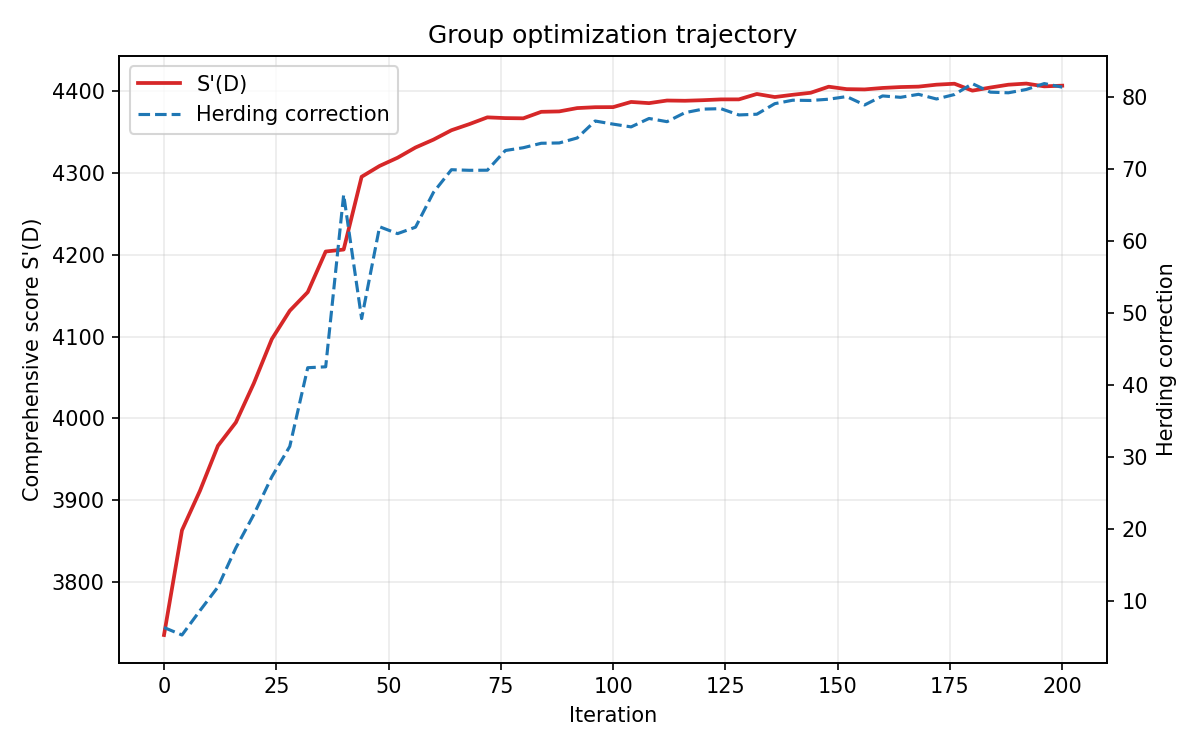
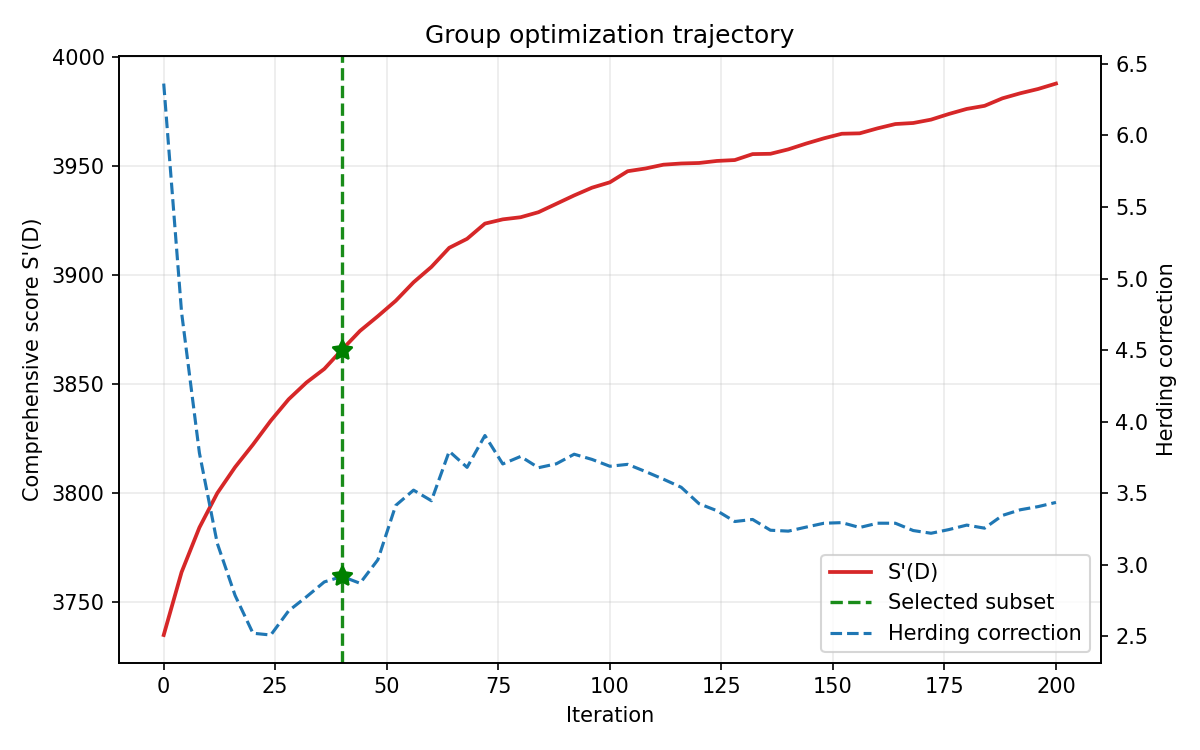
xxx

diff --git a/calculate_my_mask.py b/calculate_my_mask.py
@@ -82,7 +82,7 @@ def parse_args() -> argparse.Namespace:
     parser.add_argument(
         "--group-batch-size",
         type=int,
-        default=32,
+        default=16,
         help="kr<=50 时的初始 batch_size；kr>50 时自动减半",
     )
     parser.add_argument(
@@ -531,9 +531,17 @@ def select_group_mask(
 
     # 初始真实评估
     current_item = _evaluate(current_indices)
+    init_item = dict(current_item)
+
+    def _selection_metric(item: dict[str, object]) -> float:
+        corr_sum = float(item["class_corr"]) + float(item["mean_corr"])
+        delta = float(item["fitness"]) - float(init_item["fitness"])
+        return float(delta / (corr_sum + float(DEFAULT_EPS)))
+
     best_item = dict(current_item)
     best_item["indices"] = np.asarray(current_item["indices"], dtype=np.int64).copy()
     best_item["mask"] = np.asarray(current_item["mask"], dtype=np.uint8).copy()
+    best_metric_value = _selection_metric(best_item)
     last_eval_fit = float(current_item["fitness"])
 
     score_history = [float(current_item["raw_score"])]
@@ -644,11 +652,13 @@ def select_group_mask(
             class_correction_history.append(float(current_item["class_corr"]))
             mean_correction_history.append(float(current_item["mean_corr"]))
             fitness_history.append(float(current_item["fitness"]))
-            improved = float(current_item["fitness"]) > float(best_item["fitness"])
+            cur_metric_value = _selection_metric(current_item)
+            improved = cur_metric_value > best_metric_value
             if improved:
                 best_item = dict(current_item)
                 best_item["indices"] = np.asarray(current_item["indices"], dtype=np.int64).copy()
                 best_item["mask"] = np.asarray(current_item["mask"], dtype=np.uint8).copy()
+                best_metric_value = cur_metric_value
                 stale_eval_count = 0
             else:
                 stale_eval_count += 1
@@ -658,7 +668,9 @@ def select_group_mask(
                 stale_eval_count = 0
 
         iter_bar.set_postfix(
-            best_fit=f"{float(best_item['fitness']):.4f}",
+            best_metric=f"{best_metric_value:.4f}",
+            cur_sprime=f"{last_eval_fit:.4f}",
+            cur_herd=f"{float(current_item['mean_corr']):.4f}",
             batch_size=int(cur_batch_size),
         )
 
@@ -681,6 +693,17 @@ def select_group_mask(
         "S_prime": float(best_item["fitness"]),
         "selected_by_class": selected_by_class,
         "best_iter": int(eval_steps[int(np.argmax(np.asarray(fitness_history, dtype=np.float32)))]) if fitness_history else 0,
+        "selected_best_iter": int(eval_steps[int(np.argmax(np.asarray([
+            (f - float(init_item['fitness'])) / (c + m + float(DEFAULT_EPS))
+            for f, c, m in zip(fitness_history, class_correction_history, mean_correction_history)
+        ], dtype=np.float32)))]) if fitness_history else 0,
+        "selection_metric": float(best_metric_value),
+        "init_S_prime": float(init_item["fitness"]),
+        "init_herding_corr": float(init_item["mean_corr"]),
+        "init_class_corr": float(init_item["class_corr"]),
+        "best_herding_corr": float(best_item["mean_corr"]),
+        "best_class_corr": float(best_item["class_corr"]),
+        "best_sprime_over_herding": float(best_item["fitness"] / (float(best_item["mean_corr"]) + float(DEFAULT_EPS))),
         "score_history": score_history,
         "fitness_history": fitness_history,
         "correction_history": [float(c) + float(m) for c, m in zip(class_correction_history, mean_correction_history)],
@@ -718,6 +741,7 @@ def save_score_curve_plot(
     seed: int,
     keep_ratio: int,
     clip_model: str,
+    selected_eval_step: int | None = None,
 ) -> Path:
     out_dir = PROJECT_ROOT / "mask_debug"
     out_dir.mkdir(parents=True, exist_ok=True)
@@ -747,6 +771,14 @@ def save_score_curve_plot(
     ax2 = ax.twinx()
     ax2.plot(x, herding_corr_arr, linewidth=1.5, color="#1f77b4", linestyle="--", label="Herding correction")
     ax2.set_ylabel("Herding correction")
+
+    if selected_eval_step is not None and fit_arr.size > 0:
+        selected_x = int(selected_eval_step)
+        fit_y = float(np.interp(selected_x, x, fit_arr))
+        herd_y = float(np.interp(selected_x, x, herding_corr_arr))
+        ax.axvline(selected_x, color="green", linestyle="--", linewidth=1.6, alpha=0.9, label="Selected subset")
+        ax.plot(selected_x, fit_y, marker=(5, 1), color="green", markersize=10, linestyle="None")
+        ax2.plot(selected_x, herd_y, marker=(5, 1), color="green", markersize=10, linestyle="None")
 
     lines1, labels1 = ax.get_legend_handles_labels()
     lines2, labels2 = ax2.get_legend_handles_labels()
@@ -955,6 +987,7 @@ def main() -> None:
                     group_stats.get("mean_correction_history", []),
                     fitness_history=group_stats.get("fitness_history", []),
                     eval_steps=group_stats.get("eval_steps"),
+                    selected_eval_step=int(group_stats.get("selected_best_iter", 0)),
                     dataset=dataset_name,
                     method=method,
                     weight_group=weight_group,
@@ -987,9 +1020,23 @@ def main() -> None:
                     f"sr={group_stats['sr']:.6f} | rate={group_stats['final_rate']:.6f} | "
                     f"m_c={group_stats['selected_by_class']} | "
                     f"best_iter={group_stats['best_iter']} | "
+                    f"selected_best_iter={group_stats['selected_best_iter']} | "
                     f"S(D)={group_stats['S']:.6f} | pen(D)={group_stats['penalty']:.6f} | "
                     f"mean_pen(D)={group_stats['final_mean_penalty']:.6f} | "
-                    f"lambda_mean={group_stats['lambda_mean']:.6f} | S'(D)={group_stats['S_prime']:.6f}"
+                    f"lambda_mean={group_stats['lambda_mean']:.6f} | S'(D)={group_stats['S_prime']:.6f} | "
+                    f"metric={group_stats['selection_metric']:.6f}"
+                )
+                print(
+                    "best_ratio: "
+                    f"{group_stats['S_prime']:.2f}/{group_stats['best_herding_corr']:.2f}="
+                    f"{group_stats['best_sprime_over_herding']:.2f} | "
+                    f"class_corr={group_stats['best_class_corr']:.2f}"
+                )
+                print(
+                    "random_init_stats: "
+                    f"score={group_stats['init_S_prime']:.2f} | "
+                    f"herding_corr={group_stats['init_herding_corr']:.2f} | "
+                    f"class_corr={group_stats['init_class_corr']:.2f}"
                 )
             print(f"mask saved to: {mask_path}")
 

diff --git a/test_herding.py b/test_herding.py
@@ -19,6 +19,7 @@ from scoring import Div  # noqa: E402
 from utils.global_config import CONFIG  # noqa: E402
 from utils.path_rules import resolve_mask_path  # noqa: E402
 from utils.seed import set_seed  # noqa: E402
+from utils.group_lambda import compute_balance_penalty  # noqa: E402
 
 
 def parse_args() -> argparse.Namespace:
@@ -192,26 +193,43 @@ def main() -> None:
         methods = ["random", "herding", "learned_topk", "learned_group", "naive_topk"]
         values_class_avg: dict[str, dict[int, float]] = {m: {} for m in methods}
         values_no_class_avg: dict[str, dict[int, float]] = {m: {} for m in methods}
+        values_class_balance_raw: dict[str, dict[int, float]] = {m: {} for m in methods}
         rng = np.random.default_rng(args.random_seed)
 
         for kr in krs:
             random_mask = _random_mask(n_samples, kr, rng)
+            random_target_size = int(np.sum(random_mask))
             values_class_avg["random"][kr] = _compute_herding_penalty_avg(random_mask, labels, feats_np, full_mean, full_var, eps)
             values_no_class_avg["random"][kr] = _compute_herding_penalty_sum(random_mask, labels, feats_np, full_mean, full_var, eps)
+            values_class_balance_raw["random"][kr] = compute_balance_penalty(
+                random_mask,
+                labels,
+                num_classes,
+                random_target_size,
+            )
 
             for mode in methods[1:]:
                 mask_path = resolve_mask_path(mode, dataset_name, args.model_name, args.seed, kr)
                 try:
                     mask = _load_mask(mask_path, n_samples)
+                    target_size = int(np.sum(mask))
                     values_class_avg[mode][kr] = _compute_herding_penalty_avg(mask, labels, feats_np, full_mean, full_var, eps)
                     values_no_class_avg[mode][kr] = _compute_herding_penalty_sum(mask, labels, feats_np, full_mean, full_var, eps)
+                    values_class_balance_raw[mode][kr] = compute_balance_penalty(
+                        mask,
+                        labels,
+                        num_classes,
+                        target_size,
+                    )
                 except Exception as exc:
                     print(f"[WARN] {dataset_name} kr={kr} mode={mode}: {exc}")
                     values_class_avg[mode][kr] = float("nan")
                     values_no_class_avg[mode][kr] = float("nan")
+                    values_class_balance_raw[mode][kr] = float("nan")
 
         print(_format_table("按类别取均值", dataset_name, krs, values_class_avg))
         print(_format_table("不按类别取均值", dataset_name, krs, values_no_class_avg))
+        print(_format_table("类别平衡修正项原始值", dataset_name, krs, values_class_balance_raw))
 
 
 if __name__ == "__main__":

diff --git a/zzz.py b/zzz.py
@@ -1,0 +1,83 @@
+import os
+import numpy as np
+import matplotlib.pyplot as plt
+from torchvision.datasets import CIFAR100
+
+
+def main():
+    # 数据目录
+    data_root = "./data"
+
+    # 读取 CIFAR-100 训练集
+    dataset = CIFAR100(root=data_root, train=True, download=False)
+
+    # CIFAR-100 类别名称
+    class_names = dataset.classes
+
+    # 取前 5 个类别（标签 0,1,2,3,4）
+    selected_classes = [5, 6, 7, 8, 9]
+
+    # 每个类别收集前 5 张图片
+    images_per_class = 5
+    class_to_images = {cls_idx: [] for cls_idx in selected_classes}
+
+    for img, label in dataset:
+        if label in class_to_images and len(class_to_images[label]) < images_per_class:
+            class_to_images[label].append(np.array(img))
+
+        # 如果所有类别都收集满了，就提前结束
+        if all(len(class_to_images[cls_idx]) == images_per_class for cls_idx in selected_classes):
+            break
+
+    # 检查是否收集成功
+    for cls_idx in selected_classes:
+        if len(class_to_images[cls_idx]) < images_per_class:
+            raise RuntimeError(
+                f"类别 {cls_idx} ({class_names[cls_idx]}) 只找到 {len(class_to_images[cls_idx])} 张图片，不足 {images_per_class} 张。"
+            )
+
+    # 创建画布：5 行 5 列图像
+    n_rows = len(selected_classes)
+    n_cols = images_per_class
+
+    fig, axes = plt.subplots(n_rows, n_cols, figsize=(10, 10))
+
+    # 如果 axes 不是二维数组，强制转成二维
+    axes = np.array(axes).reshape(n_rows, n_cols)
+
+    # 绘制图片
+    for row, cls_idx in enumerate(selected_classes):
+        for col in range(n_cols):
+            axes[row, col].imshow(class_to_images[cls_idx][col])
+            axes[row, col].axis("off")
+
+    # 调整布局：
+    # left 留出左侧空白给标签
+    plt.subplots_adjust(left=0.18, right=0.98, top=0.98, bottom=0.02, wspace=0.05, hspace=0.05)
+
+    # 在左侧空白区域添加类别标签
+    for row, cls_idx in enumerate(selected_classes):
+        # 获取这一行最左侧子图的位置
+        ax = axes[row, 0]
+        bbox = ax.get_position()
+        y_center = (bbox.y0 + bbox.y1) / 2
+
+        fig.text(
+            0.08,                  # 左侧空白区域中的横坐标
+            y_center,              # 与该行中心对齐
+            class_names[cls_idx],  # 类别名称
+            ha="center",
+            va="center",
+            fontsize=24
+        )
+
+    # 保存图片
+    output_path = "figure.png"
+    plt.savefig(output_path, dpi=300, bbox_inches="tight")
+    plt.close(fig)
+
+    print(f"图像已保存到: {output_path}")
+
+
+if __name__ == "__main__":
+    main()
